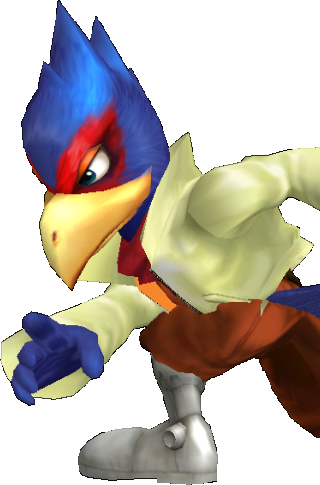
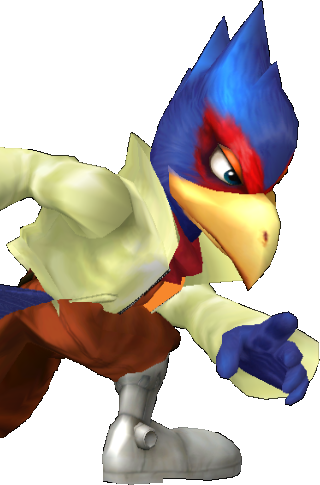
Halfway through having all character models done.

diff --git a/server/public/scripts/canvasImpl.js b/server/public/scripts/canvasImpl.js
@@ -136,7 +136,9 @@ function rewriteCanvas(){
 };
 
 /** RETURN URL TO IMAGE **/
-function getImagePath(char){
+function getImagePath(char, side){
+	if(side === 'right')
+		return 'images/Melee/Thumbs/'char+'Reverse.png'	
 	return '/images/Melee/Thumbs/'+char+'.png';
 }
 function getNameplatesPath(plate){
